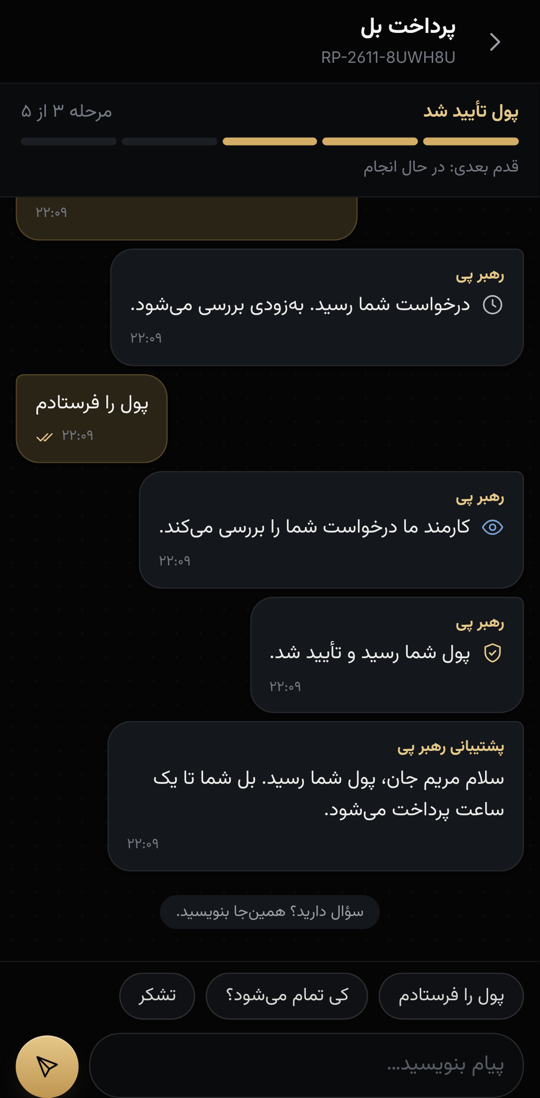
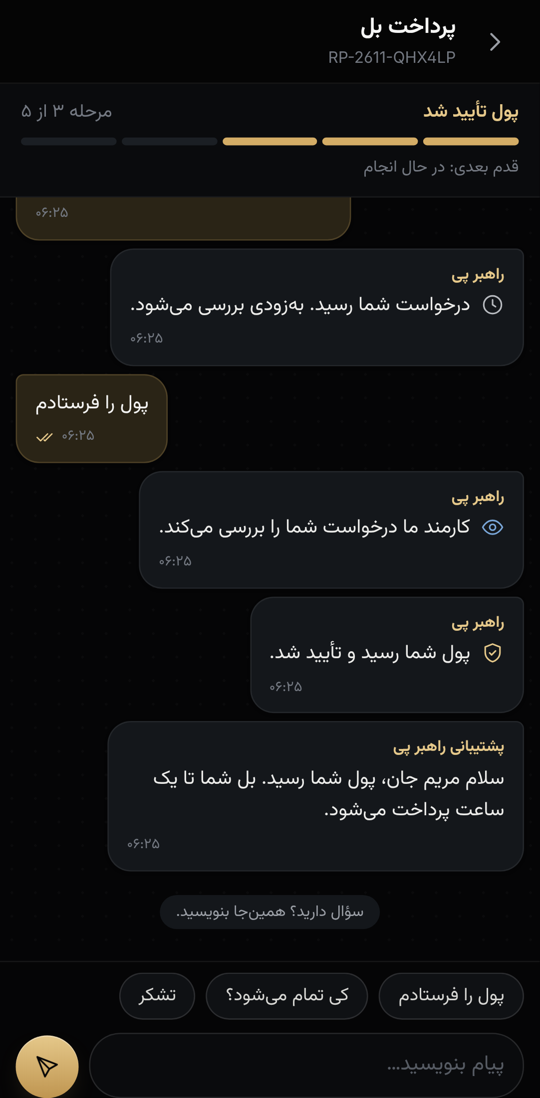
Rahbar Pay: use the correct Dari name «راهبر پی»
The Dari name is راهبر پی (Rahbar Pay in English). Updated the logo,
page titles, manifest, notification and Telegram texts, seed data in
the migrations, docs and screenshots.

Claude-Session: https://claude.ai/code/session_01TJhCrquqjWdGHovH59wGmR

diff --git a/rahbar-pay/public/index.html b/rahbar-pay/public/index.html
@@ -4,8 +4,8 @@
   <meta charset="utf-8" />
   <meta name="viewport" content="width=device-width, initial-scale=1, viewport-fit=cover" />
   <meta name="theme-color" content="#050506" />
-  <meta name="description" content="رهبر پی — پرداخت بل، کریدت موبایل و پیگیری ساده درخواستها. Rahbar Pay — simple bill payment, mobile top-up and request tracking." />
-  <title>رهبر پی · Rahbar Pay</title>
+  <meta name="description" content="راهبر پی — پرداخت بل، کریدت موبایل و پیگیری ساده درخواستها. Rahbar Pay — simple bill payment, mobile top-up and request tracking." />
+  <title>راهبر پی · Rahbar Pay</title>
   <link rel="manifest" href="/manifest.webmanifest" />
   <link rel="icon" href="/assets/img/logo-mark.svg" type="image/svg+xml" />
   <link rel="preload" href="/assets/fonts/Vazirmatn-Regular.woff2" as="font" type="font/woff2" crossorigin />
@@ -16,6 +16,6 @@
   <div id="app">
     <div class="grid min-h-dvh place-items-center"><svg class="size-10 animate-pulse" viewBox="0 0 40 40" aria-hidden="true"><rect x="1" y="1" width="38" height="38" rx="11" fill="#d4ad66"/></svg></div>
   </div>
-  <noscript><p style="padding:2rem;color:#ccc;font-family:sans-serif">رهبر پی به JavaScript نیاز دارد. · Rahbar Pay needs JavaScript.</p></noscript>
+  <noscript><p style="padding:2rem;color:#ccc;font-family:sans-serif">راهبر پی به JavaScript نیاز دارد. · Rahbar Pay needs JavaScript.</p></noscript>
 </body>
 </html>

diff --git a/rahbar-pay/public/assets/js/app/strings.js b/rahbar-pay/public/assets/js/app/strings.js
@@ -3,7 +3,7 @@ export default {
   fa: {
     demo_short: 'نسخه آزمایشی — پول واقعی جابجا نمیشود.',
     hello: 'سلام',
-    hello_guest: 'به رهبر پی خوش آمدید',
+    hello_guest: 'به راهبر پی خوش آمدید',
     home_q: 'امروز چه کاری انجام دهیم؟',
     btn_bill: 'پرداخت بل',
     btn_bill_sub: 'برق، آب، انترنت',
@@ -37,7 +37,7 @@ export default {
     name_sub: 'فقط همین یک بار میپرسیم.',
     name_label: 'نام و تخلص',
     name_btn: 'شروع',
-    terms_line: 'با ادامه دادن، شرایط استفاده رهبر پی را میپذیرید.',
+    terms_line: 'با ادامه دادن، شرایط استفاده راهبر پی را میپذیرید.',
 
     step_of: 'مرحله {n} از {total}',
     s_info: 'معلومات',
@@ -80,8 +80,8 @@ export default {
     chat_q1: 'پول را فرستادم',
     chat_q2: 'کی تمام میشود؟',
     chat_q3: 'تشکر',
-    chat_rahbar: 'رهبر پی',
-    chat_staff: 'پشتیبانی رهبر پی',
+    chat_rahbar: 'راهبر پی',
+    chat_staff: 'پشتیبانی راهبر پی',
     chat_you: 'شما',
     chat_your_request: 'درخواست شما',
     chat_reason: 'دلیل:',

diff --git a/rahbar-pay/src/worker.js b/rahbar-pay/src/worker.js
@@ -56,12 +56,12 @@ async function telegramWebhook(request, env) {
     if (user) {
       await env.DB.prepare('UPDATE users SET telegram_chat = ?, telegram_link_code = NULL WHERE id = ?').bind(chat, user.id).run();
       await sendTelegram(env, chat, user.lang === 'fa'
-        ? 'رهبر پی — اعلانها فعال شد. ما فقط بهروزرسانی وضعیت را بدون جزئیات مالی ارسال میکنیم.'
+        ? 'راهبر پی — اعلانها فعال شد. ما فقط بهروزرسانی وضعیت را بدون جزئیات مالی ارسال میکنیم.'
         : 'Rahbar Pay — notifications enabled. We only send status updates, never financial details.');
       return json({ ok: true });
     }
   }
-  await sendTelegram(env, chat, 'Rahbar Pay — open Profile → Notifications in the app to link this chat.\nرهبر پی — برای اتصال، از بخش پروفایل ← اعلانها در برنامه استفاده کنید.');
+  await sendTelegram(env, chat, 'Rahbar Pay — open Profile → Notifications in the app to link this chat.\nراهبر پی — برای اتصال، از بخش پروفایل ← اعلانها در برنامه استفاده کنید.');
   return json({ ok: true });
 }
 

diff --git a/rahbar-pay/src/lib/notify.js b/rahbar-pay/src/lib/notify.js
@@ -19,7 +19,7 @@ export async function notifyUser(env, ctx, user, { kind, title_en, title_fa, bod
 
   if (user.telegram_chat && user.notify_telegram && env.TELEGRAM_BOT_TOKEN) {
     const fa = user.lang === 'fa';
-    const text = `${fa ? 'رهبر پی' : 'Rahbar Pay'} — ${fa ? (tg_fa ?? title_fa) : (tg_en ?? title_en)}\n${fa ? 'برای جزئیات وارد برنامه شوید.' : 'Sign in to the app for details.'}`;
+    const text = `${fa ? 'راهبر پی' : 'Rahbar Pay'} — ${fa ? (tg_fa ?? title_fa) : (tg_en ?? title_en)}\n${fa ? 'برای جزئیات وارد برنامه شوید.' : 'Sign in to the app for details.'}`;
     const p = sendTelegram(env, user.telegram_chat, text);
     if (ctx?.waitUntil) ctx.waitUntil(p); else await p;
   }

diff --git a/rahbar-pay/src/routes/customer.js b/rahbar-pay/src/routes/customer.js
@@ -141,7 +141,7 @@ export async function handleCustomer(request, env, ctx, path) {
       user = await env.DB.prepare('SELECT * FROM users WHERE phone = ?').bind(phone).first();
       await audit(env, request, user, 'customer.registered', 'user', user.id);
       await notifyUser(env, ctx, user, {
-        kind: 'welcome', title_en: 'Welcome to Rahbar Pay', title_fa: 'به رهبر پی خوش آمدید',
+        kind: 'welcome', title_en: 'Welcome to Rahbar Pay', title_fa: 'به راهبر پی خوش آمدید',
         body_en: `Your customer number is ${user.id}.`, body_fa: `شماره مشتری شما ${user.id} است.`,
       });
     }

diff --git a/rahbar-pay/public/assets/js/core/ui.js b/rahbar-pay/public/assets/js/core/ui.js
@@ -92,7 +92,7 @@ export function logo({ size = 'md', sub = false } = {}) {
     ${logoMark(mark)}
     <span class="leading-none">
       ${fa
-        ? html`<span class="block text-[17px] font-bold tracking-tight">رهبر <span class="gold-text">پی</span></span>`
+        ? html`<span class="block text-[17px] font-bold tracking-tight">راهبر <span class="gold-text">پی</span></span>`
         : html`<span class="block text-[15px] font-semibold tracking-[0.2em]">RAHBAR<span class="gold-text ms-1.5">PAY</span></span>`}
       ${sub ? html`<span class="mt-1 block text-[10.5px] tracking-wide text-fog-500">${sub}</span>` : ''}
     </span>

diff --git a/rahbar-pay/public/admin.html b/rahbar-pay/public/admin.html
@@ -15,6 +15,6 @@
   <div id="app">
     <div class="grid min-h-dvh place-items-center"><svg class="size-10 animate-pulse" viewBox="0 0 40 40" aria-hidden="true"><rect x="1" y="1" width="38" height="38" rx="11" fill="#d4ad66"/></svg></div>
   </div>
-  <noscript><p style="padding:2rem;color:#ccc;font-family:sans-serif">رهبر پی به JavaScript نیاز دارد. · Rahbar Pay needs JavaScript.</p></noscript>
+  <noscript><p style="padding:2rem;color:#ccc;font-family:sans-serif">راهبر پی به JavaScript نیاز دارد. · Rahbar Pay needs JavaScript.</p></noscript>
 </body>
 </html>

diff --git a/rahbar-pay/public/assets/js/core/i18n.js b/rahbar-pay/public/assets/js/core/i18n.js
@@ -133,7 +133,7 @@ const dict = {
   },
 
   fa: {
-    brand: 'رهبر پی',
+    brand: 'راهبر پی',
     lang_toggle: 'English',
     demo: 'نمایشی',
     retry: 'تلاش دوباره',

diff --git a/rahbar-pay/README.md b/rahbar-pay/README.md
@@ -1,4 +1,4 @@
-# Rahbar Pay — رهبر پی
+# Rahbar Pay — راهبر پی
 
 A digital financial services web app (working prototype), designed for people who rarely use websites. It works in the browser with no app install, and it is meant to be as easy as sending a WhatsApp message while still keeping professional order management, security and an audit trail. Rahbar Pay is a separate product from the nirkh.com site in the root of this repository. It has its own Worker, database and code, and shares nothing with it.
 
@@ -11,7 +11,7 @@ A digital financial services web app (working prototype), designed for people wh
 3. **Three steps at most:** معلومات (details) → پرداخت (payment) → ارسال (send). Services without a payment take two steps. Choices are large tap tiles with icons, and top-up has quick amount buttons.
 4. **Easy to read and tap:** large buttons and text, clear Dari, recognizable icons, one short sentence of instruction per field.
 5. **Tracking is a conversation:** each request opens a WhatsApp-style chat.
-   - Status updates arrive as messages from "رهبر پی".
+   - Status updates arrive as messages from "راهبر پی".
    - A progress bar shows "مرحله ۲ از ۵" and what comes next.
    - The customer and staff can write to each other, and ✓✓ marks a message as read by staff.
    - Quick-reply chips are offered, such as "پول را فرستادم".

diff --git a/rahbar-pay/DEPLOY-fa.md b/rahbar-pay/DEPLOY-fa.md
@@ -1,8 +1,8 @@
-# راهنمای راهاندازی رهبر پی (Rahbar Pay)
+# راهنمای راهاندازی راهبر پی (Rahbar Pay)
 
 این راهنما مراحل اجرای پروژه روی کمپیوتر شما و انتشار آن روی Cloudflare را قدمبهقدم توضیح میدهد.
 
-> رهبر پی یک سایت کاملاً جدا از nirkh.com است: Worker جدا، پایگاه داده جدا و کد جدا.
+> راهبر پی یک سایت کاملاً جدا از nirkh.com است: Worker جدا، پایگاه داده جدا و کد جدا.
 
 > ⚠ این نسخه **نمایشی** است. هیچ پرداخت واقعی انجام نمیشود. تا زمانی که مجوز قانونی و قرارداد با ارائهدهندگان (اتوما پی، حساب پی، بانک) را نگرفتهاید، حساب پرداخت واقعی وصل نکنید و خدمات رمزارز را فعال نکنید.
 
